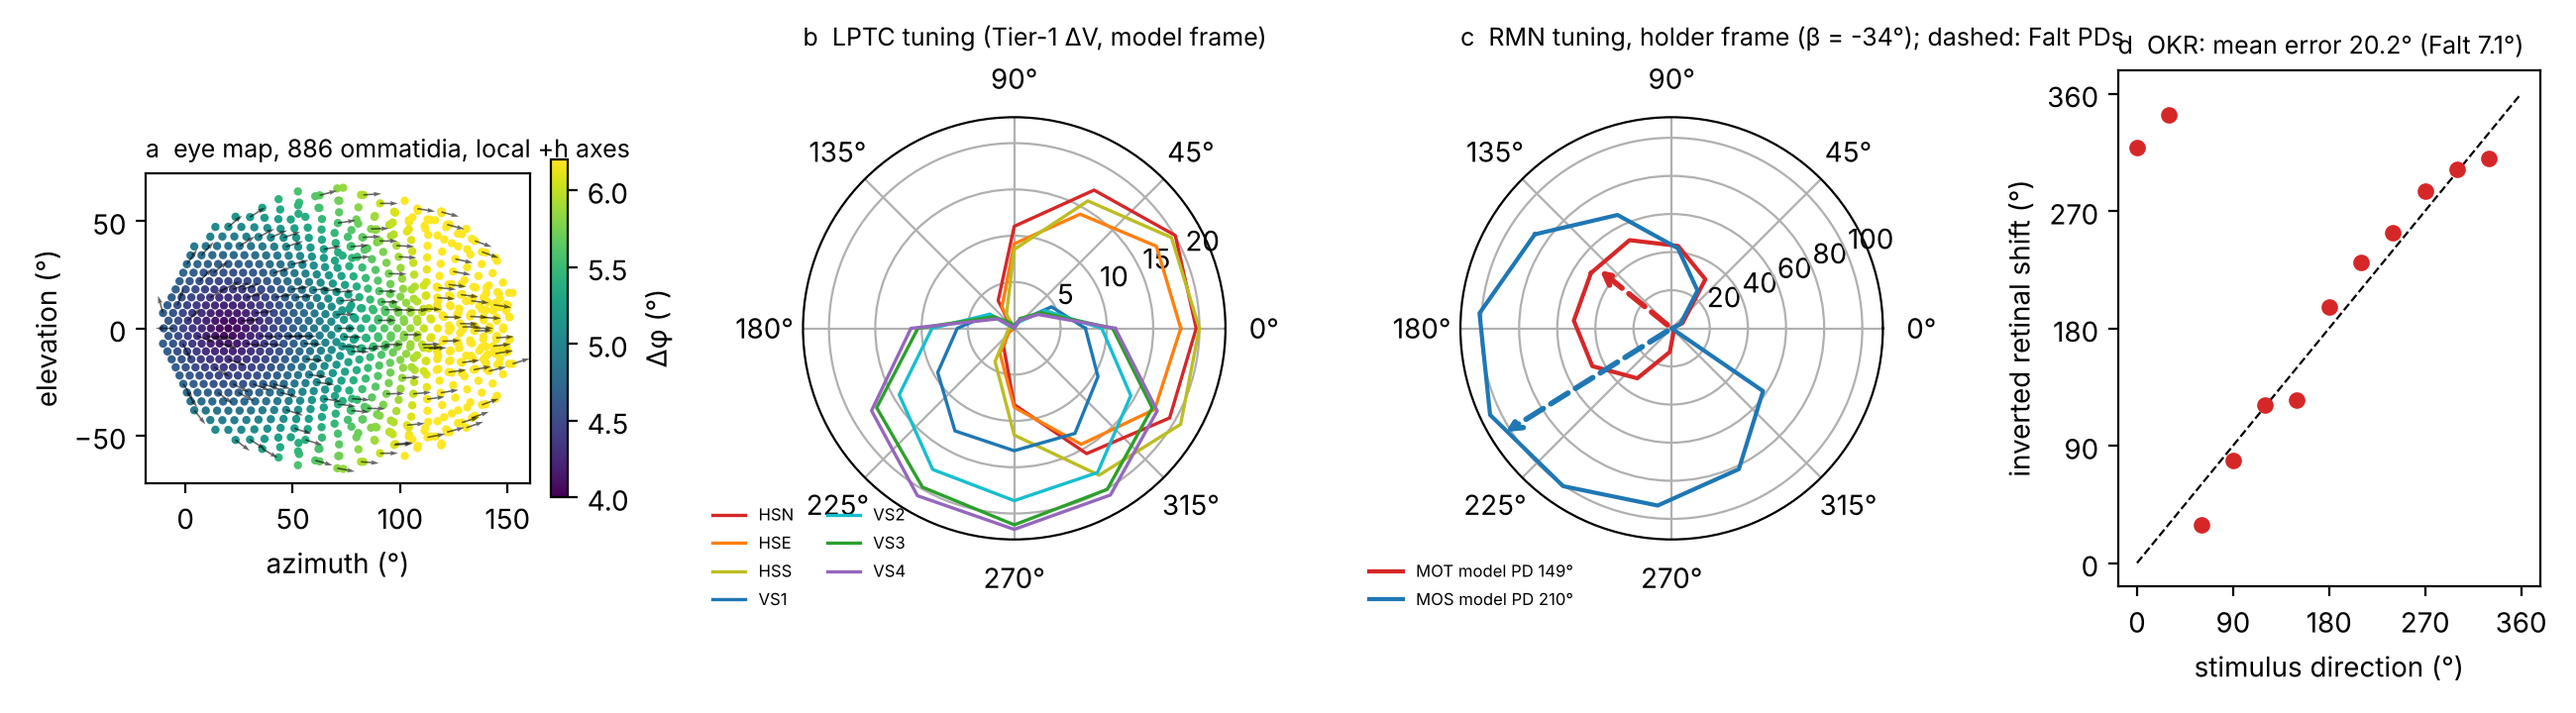
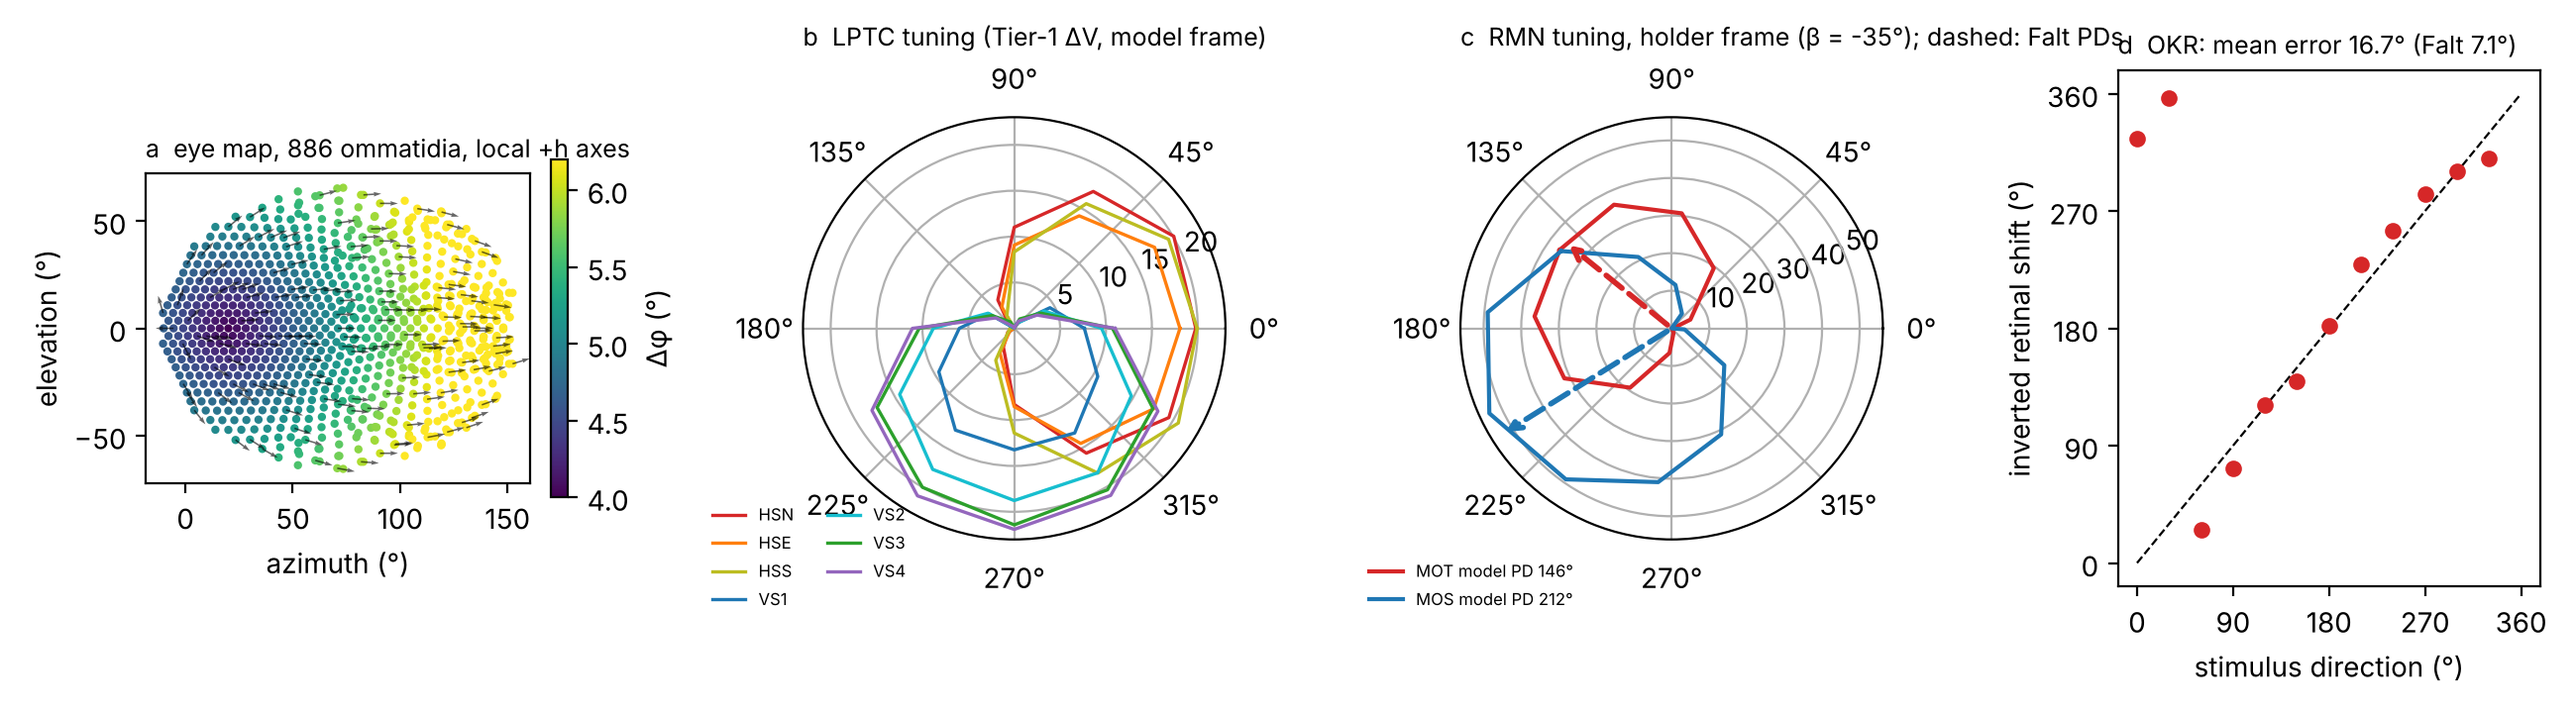
Design doc: final validation numbers, junction filter, MIO weight; refreshed validation figure
Claude-Session: https://claude.ai/code/session_019w1g3zmF9f5RxMf9VaUqRc

diff --git a/docs/model_design.md b/docs/model_design.md
@@ -119,9 +119,14 @@ the junction conductances, so the motor neurons would clamp the LPTCs; the real 
 low-impedance, and the scaling makes them stiff graded voltage sources whose coupling onto the RMNs is
 set by `g_lptc_mn` (= 0.5) alone; (iii) bias calibration: each RMN's bias current is set so that its
 tonic rate at rest is 100 Hz, compensating the tonic junction current (Falt: RMNs operate at an
-intermediate activation regime with a bidirectional range). With these settings a preferred-direction
-grating modulates MOT by +26/−26 Hz (HS cells) and MOS by +33/−14 Hz (VS cells); stronger coupling
-drives the HH neurons into depolarisation block.
+intermediate activation regime with a bidirectional range); (iv) the LPTC↔RMN junctions carry a
+15 ms low-pass filter (C = G·τ) representing the cable distance between junction site and
+spike-initiation zone: with the MESH preset (≈ 1.6 ms) the RMN spikes appear as 10 mV spikelets in
+the LPTCs, with 15 ms they are 1.5–2 mV and the rate-coded modulation is unchanged. With these
+settings a preferred-direction grating modulates MOT by +22/−15 Hz (HS cells) and MOS by +31 Hz
+(VS cells); stronger coupling drives the HH neurons into depolarisation block. The male's MIO
+receives its single HSN input with a junction three times the HS→MOT conductance (`w_mio` = 3), so
+that the three motor neurons have comparable visual modulation; this is a free parameter (§4).
 
 ### Stage 5: frames and the oculomotor model (`hover/oculomotor.py`)
 
@@ -159,17 +164,17 @@ Twelve grating directions (λ 30°, 30°/s, 1 s of motion), the circuit above, o
 rotation β and one fitted wiring ratio `w_vs_mos` (VS1–4 → MOS junction conductance relative to
 HS → MOS, per cell):
 
-| Quantity | Falt *et al.* 2026 | model (w_vs_mos = 1) | model (w_vs_mos = 2) |
-|---|---|---|---|
-| MOT PD | 141° | 159° | 149° |
-| MOS PD | 212° | 204° | 210° |
-| MOS − MOT divergence | ≈ 72° | 45° | 61° |
-| MOT − HS | 8° | 4° | 2° |
-| MOS − linear sum (4/7 VS + 3/7 HS) | 6° | 2° | 13° |
-| VS1–4 PD (prediction) | – | 243° | 233° |
-| OKR mean error (inverted shift vs stimulus) | 7.1° | 23° | 20° |
-| fitted β | – | −25.5° | −34.5° |
-| tonic rates MOT / MOS | – | 113 / 124 Hz | 110 / 141 Hz |
+| Quantity | Falt *et al.* 2026 | model, w_vs_mos = 1 | model, w_vs_mos = 2 | final (w_vs_mos = 2, junction filter 15 ms) |
+|---|---|---|---|---|
+| MOT PD | 141° | 159° | 149° | 146° |
+| MOS PD | 212° | 204° | 210° | 212° |
+| MOS − MOT divergence | ≈ 72° | 45° | 61° | 66° |
+| MOT − HS | 8° | 4° | 2° | 0° |
+| MOS − linear sum (4/7 VS + 3/7 HS) | 6° | 2° | 13° | 16° |
+| VS1–4 PD (prediction) | – | 243° | 233° | 233° |
+| OKR mean error (inverted shift vs stimulus) | 7.1° | 23° | 20° | 17° |
+| fitted β | – | −25.5° | −34.5° | −35° |
+| tonic rates MOT / MOS | – | 113 / 124 Hz | 110 / 141 Hz | 109 / 111 Hz |
 
 What the model reproduces without tuning: the MOT PD follows the HS cells; the MOS PD is the
 electrical linear sum of VS1–4 and HS; the two RMNs diverge; the inverted vector sum of the pulls
@@ -184,8 +189,8 @@ constrain both. The direction-dependent OKR error is largest where both RMNs res
 why the system needs the VS input to MOS, and the hoverfly's third muscle is the obvious candidate
 for completing the basis in the male.
 
-Figure: `scratchpad/val_w2.0.png` (eye map with local axes; LPTC tuning; RMN tuning in the holder
-frame with Falt's PDs; OKR plot) — to be copied into `proposal/figures/` once the parameters are final.
+Figure: `proposal/figures/fig_model_validation.png` (eye map with local axes; LPTC tuning; RMN tuning
+in the holder frame with Falt's PDs; OKR plot), produced by `python -m hover.validate_falt --wvs 2`.
 
 ## 4. Free parameters and hypotheses of the hoverfly models
 
@@ -195,7 +200,7 @@ frame with Falt's PDs; OKR plot) — to be copied into `proposal/figures/` once 
 | MIO drive | HSN (H2), HSNE, pooled HS, VS | neurobiotin fills, stimuli optimised on MIO activity |
 | HSN ♂ receptive field | Nordström 2008 contours (Gaussian fits above) | WP2 recordings |
 | HSNE local PD | +h with an upward component | WP2 recordings |
-| LPTC↔RMN conductances | g_lptc_mn 0.5, VS→MOS ×2 (Falt fit) | WP1 apposition areas, WP2 fills |
+| LPTC↔RMN conductances | g_lptc_mn 0.5, VS→MOS ×2 (Falt fit), HSN→MIO ×3, junction filter 15 ms | WP1 apposition areas, WP2 fills, EMG |
 | Bright-zone sampling | Straw 2006; v0 ellipse | optics, CT |
 | Hoverfly MOS/MOT pull directions | same as *Drosophila* | CT |
 | yaw_fraction (eye-lattice tilt) | 0.4 | Zhao-type eye map of *Eristalis* (WP2 CT) |
